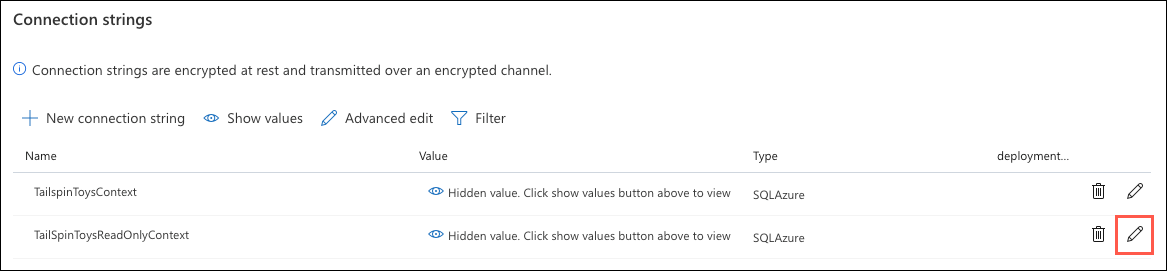
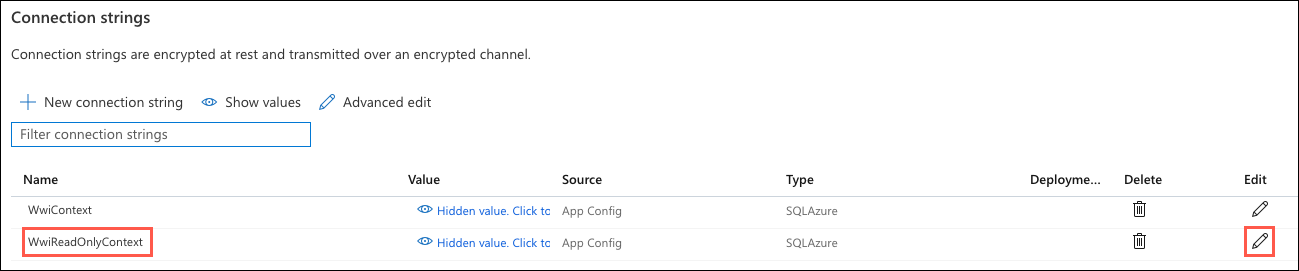
Exercise 7 updates

diff --git a/Hands-on lab/HOL step-by-step - Migrating SQL databases to Azure.md b/Hands-on lab/HOL step-by-step - Migrating SQL databases to Azure.md
@@ -59,7 +59,7 @@ Microsoft and the trademarks listed at <https://www.microsoft.com/en-us/legal/in
   - [Exercise 7: Use online secondary for read-only queries](#exercise-7-use-online-secondary-for-read-only-queries)
     - [Task 1: View Leaderboard report in the WideWorldImporters web application](#task-1-view-leaderboard-report-in-the-wideworldimporters-web-application)
     - [Task 2: Update read-only connection string](#task-2-update-read-only-connection-string)
-    - [Task 3: Reload Leaderboard report in the Tailspin Toys web app](#task-3-reload-leaderboard-report-in-the-tailspin-toys-web-app)
+    - [Task 3: Reload Leaderboard report in the web app](#task-3-reload-leaderboard-report-in-the-web-app)
   - [After the hands-on lab](#after-the-hands-on-lab)
     - [Task 1: Delete Azure resource groups](#task-1-delete-azure-resource-groups)
     - [Task 2: Delete the wide-world-importers service principal](#task-2-delete-the-wide-world-importers-service-principal)
@@ -489,7 +489,7 @@ In this task, you create a new online data migration project in DMS for the `Wid
 
 1. In the [Azure portal](https://portal.azure.com), navigate to the Azure Database Migration Service by selecting **Resource groups** from the left-hand navigation menu, selecting the **hands-on-lab-SUFFIX** resource group, and then selecting the **wwi-dms** Azure Database Migration Service in the list of resources.
 
-   ![The tailspin-dms Azure Database Migration Service is highlighted in the list of resources in the hands-on-lab-SUFFIX resource group.](media/resource-group-dms-resource.png "Resources")
+   ![The wwi-dms Azure Database Migration Service is highlighted in the list of resources in the hands-on-lab-SUFFIX resource group.](media/resource-group-dms-resource.png "Resources")
 
 2. On the Azure Database Migration Service blade, select **+New Migration Project**.
 
@@ -787,7 +787,7 @@ In this task, you create an RDP connection to the JumpBox VM and then, using Vis
 
 16. Finally, in the **App Service** box, select your subscription, expand the hands-on-lab-SUFFIX resource group, and select the `wwi-web-UNIQUEID` Web App.
 
-    ![In the Publish dialog, The Tailspin Toys Web App is selected and highlighted under the hands-on-lab-SUFFIX resource group.](media/vs-publish-web-app-service.png "Publish API App to Azure")
+    ![In the Publish dialog, The wwi-web-UNIQUEID Web App is selected and highlighted under the hands-on-lab-SUFFIX resource group.](media/vs-publish-web-app-service.png "Publish API App to Azure")
 
 17. Select **Finish**.
 
@@ -940,7 +940,7 @@ In this task, you verify your web application now loads, and you can see the hom
 
    > **Note**
    >
-   > It can often take several minutes for the network configuration to be reflected in the web app. If you get an error screen, try selecting Refresh a few times in the browser window. If that does not work, try selecting **Restart** on the web app's toolbar.
+   > It can often take several minutes for the network configuration to be reflected in the web app. If you get an error screen, try selecting Refresh a few times in the browser window. If that does not work, try selecting **Restart** on the Azure Web App's toolbar.
 
 3. Congratulations, you successfully connected your application to the new SQL MI database.
 
@@ -1026,11 +1026,9 @@ In this task, you enable Azure Defender for SQL for all databases on the Managed
 
 4. On the WideWorldImporters Managed database blade, select **Security center** from the left-hand menu, under Security, and then select **Enable Azure Defender for SQL on the managed instance**.
 
-   ![Security center is selected and highlighted in the left-hand menu of the Managed database blade, and the Enable Azure Defender for SQL on the managed instance button is highlighted.](media/sql-mi-managed-database-azure-defender-for-sql-enable.png "Advanced Data Security")
+   ![Security center is selected and highlighted in the left-hand menu of the Managed database blade, and the Enable Azure Defender for SQL on the managed instance button is highlighted.](media/sql-mi-managed-database-azure-defender-for-sql-enable.png "Azure Defender for SQL")
 
-5. Within a few minutes, Azure Defender for SQL is enabled for all databases on the Managed Instance. You will see the two tiles on the Azure Defender blade become activated and populated with data when it has finished.
-
-   ![The enabled tiles on the Advance Data Security blade are displayed.](media/ads-panels.png "Advanced Data Security")
+5. Within a few minutes, Azure Defender for SQL is enabled for all databases on the Managed Instance. You will see the two tiles on the Azure Defender blade become activated when it has been enabled.
 
 ### Task 3: Review an Advanced Data Security Vulnerability Assessment
 
@@ -1246,7 +1244,7 @@ From the findings of the Data Discovery & Classification report in ADS, you saw 
 
 Duration: 15 minutes
 
-In this exercise, you examine how you can use the automatically created online secondary for reporting, without feeling the impacts of a heavy transactional load on the primary database. Each database in the SQL MI Business Critical tier is automatically provisioned with several AlwaysON replicas to support the availability SLA. Using [**Read Scale-Out**](https://docs.microsoft.com/azure/sql-database/sql-database-read-scale-out) allows you to load balance Azure SQL Database read-only workloads using the capacity of one read-only replica.
+In this exercise, you examine how you can use the automatically created online secondary for reporting without feeling the impacts of a heavy transactional load on the primary database. Each database in the SQL MI Business Critical tier is automatically provisioned with several AlwaysON replicas to support the availability SLA. Using [**Read Scale-Out**](https://docs.microsoft.com/azure/sql-database/sql-database-read-scale-out) allows you to load balance Azure SQL Database read-only workloads utilizing the capacity of one read-only replica.
 
 ### Task 1: View Leaderboard report in the WideWorldImporters web application
 
@@ -1270,9 +1268,9 @@ In this task, you open a web report using the web application you deployed to yo
 
 5. In the WideWorldImporters web app, select **Leaderboard** from the menu.
 
-   ![READ_WRITE is highlighted on the Leaderboard page.](media/tailspin-toys-leaderboard-read-write.png "Tailspin Toys Web App")
+   ![READ_WRITE is highlighted on the Leaderboard page.](media/tailspin-toys-leaderboard-read-write.png "Gamer Leaderboard within the Web App")
 
-   > Note the `READ_WRITE` string on the page. This is the output from reading the `Updateability` property associated with the `ApplicationIntent` option on the target database. This can be retrieved using the SQL query `SELECT DATABASEPROPERTYEX(DB_NAME(), "Updateability")`.
+   > Note the `READ_WRITE` string on the page. This message is the output from reading the `Updateability` property associated with the `ApplicationIntent` option on the target database. This can be retrieved using the SQL query `SELECT DATABASEPROPERTYEX(DB_NAME(), "Updateability")`.
 
 ### Task 2: Update read-only connection string
 
@@ -1295,24 +1293,24 @@ In this task, you enable Read Scale-Out for the `WideWorldImporters`database, us
 4. The `WwiReadOnlyContext` connection string should now look something like the following:
 
    ```sql
-   Server=tcp:sqlmi-abcmxwzksiqoo.15b8611394c5.database.windows.net,1433;Database=WideWorldImporters;User ID=sqlmiuser;Password=Password.1234567890;Trusted_Connection=False;Encrypt=True;TrustServerCertificate=True;ApplicationIntent=ReadOnly;
+   Server=tcp:sqlmi-kmtwpw3nia6n2.15b8611394c5.database.windows.net,1433;Database=WideWorldImporters;User ID=sqlmiuser;Password=Password.1234567890;Trusted_Connection=False;Encrypt=True;TrustServerCertificate=True;ApplicationIntent=ReadOnly;
    ```
 
 5. Select **OK**.
 
-6. Select **Save** at the top of the Configuration blade, and select **Continue** when prompted about the application being restarted.
+6. Select **Save** at the top of the Configuration blade, and select **Continue** when prompted about restarting the application.
 
    ![The save button on the Application settings blade is highlighted.](media/app-service-configuration-save.png "Save")
 
-### Task 3: Reload Leaderboard report in the Tailspin Toys web app
+### Task 3: Reload Leaderboard report in the web app
 
-In this task, you refresh the Leaderboard report in the WideWorldImporters web app, and observe the result.
+In this task, you refresh the Leaderboard report in the WideWorldImporters web app and observe the result.
 
-1. Return to the Tailspin Toys gamer information website you opened previously, and refresh the **Leaderboard** page. The page should now look similar to the following:
+1. Return to the gamer information website you opened previously, and refresh the **Leaderboard** page. The page should now look similar to the following:
 
-   ![READ_ONLY is highlighted on the Reports page.](media/tailspin-toys-leaderboard-read-only.png "Tailspin Toys Web App")
+   ![READ_ONLY is highlighted on the Reports page.](media/tailspin-toys-leaderboard-read-only.png "Gamer Leaderboard Web App")
 
-   > Notice the `updateability` option is now displaying as `READ_ONLY`. With a simple addition to your database connection string, you can send read-only queries to the online secondary of your SQL MI Business-critical database, allowing you to load-balance read-only workloads using the capacity of one read-only replica. The SQL MI Business Critical cluster has built-in Read Scale-Out capability that provides free-of-charge built-in read-only node that can be used to run read-only queries that should not affect the performance of your primary workload.
+   > Notice the `updateability` option is now displaying as `READ_ONLY`. With a simple addition to your database connection string, queries can be sent to an online secondary of your SQL MI Business-critical database. This setting allows for load-balancing read-only workloads using the capacity of one read-only replica. The SQL MI Business Critical cluster has a built-in Read Scale-Out capability that provides a free-of-charge built-in read-only node that can be used to run read-only queries that should not affect the performance of your primary workload.
 
 ## After the hands-on lab
 
@@ -1326,12 +1324,12 @@ In this exercise, you de-provision all Azure resources that you created in suppo
 
    > **Note**
    >
-   > Deleting a resource group containing SQL MI does not always work the first time, resulting in a few networking components (route table, SQL MI NSG, and VNet) remaining in the resource group, along with the SQL MI instance, after the first delete attempt. In this case, wait for the first process to complete, and then attempt to delete the resource group a second time. You may need to allow several hours or more between delete attempts.
+   > Deleting a resource group containing SQL MI does not always work the first time. The deletion failure can result in a few networking components (route table, SQL MI NSG, and VNet) remaining in the resource group, along with the SQL MI instance, after the first delete attempt. In this case, wait for the first process to complete, and then attempt to delete the resource group a second time. _You may need to allow several hours or more between delete attempts_.
 
 ### Task 2: Delete the wide-world-importers service principal
 
 1. In the Azure portal, select **Azure Active Directory** and then select **App registrations**.
 
-2. Select the **wide-world-importers** application, and select **Delete** on the application blade.
+2. Select the **wide-world-importers** application and select **Delete** on the application blade.
 
 You should follow all steps provided _after_ attending the Hands-on lab.
